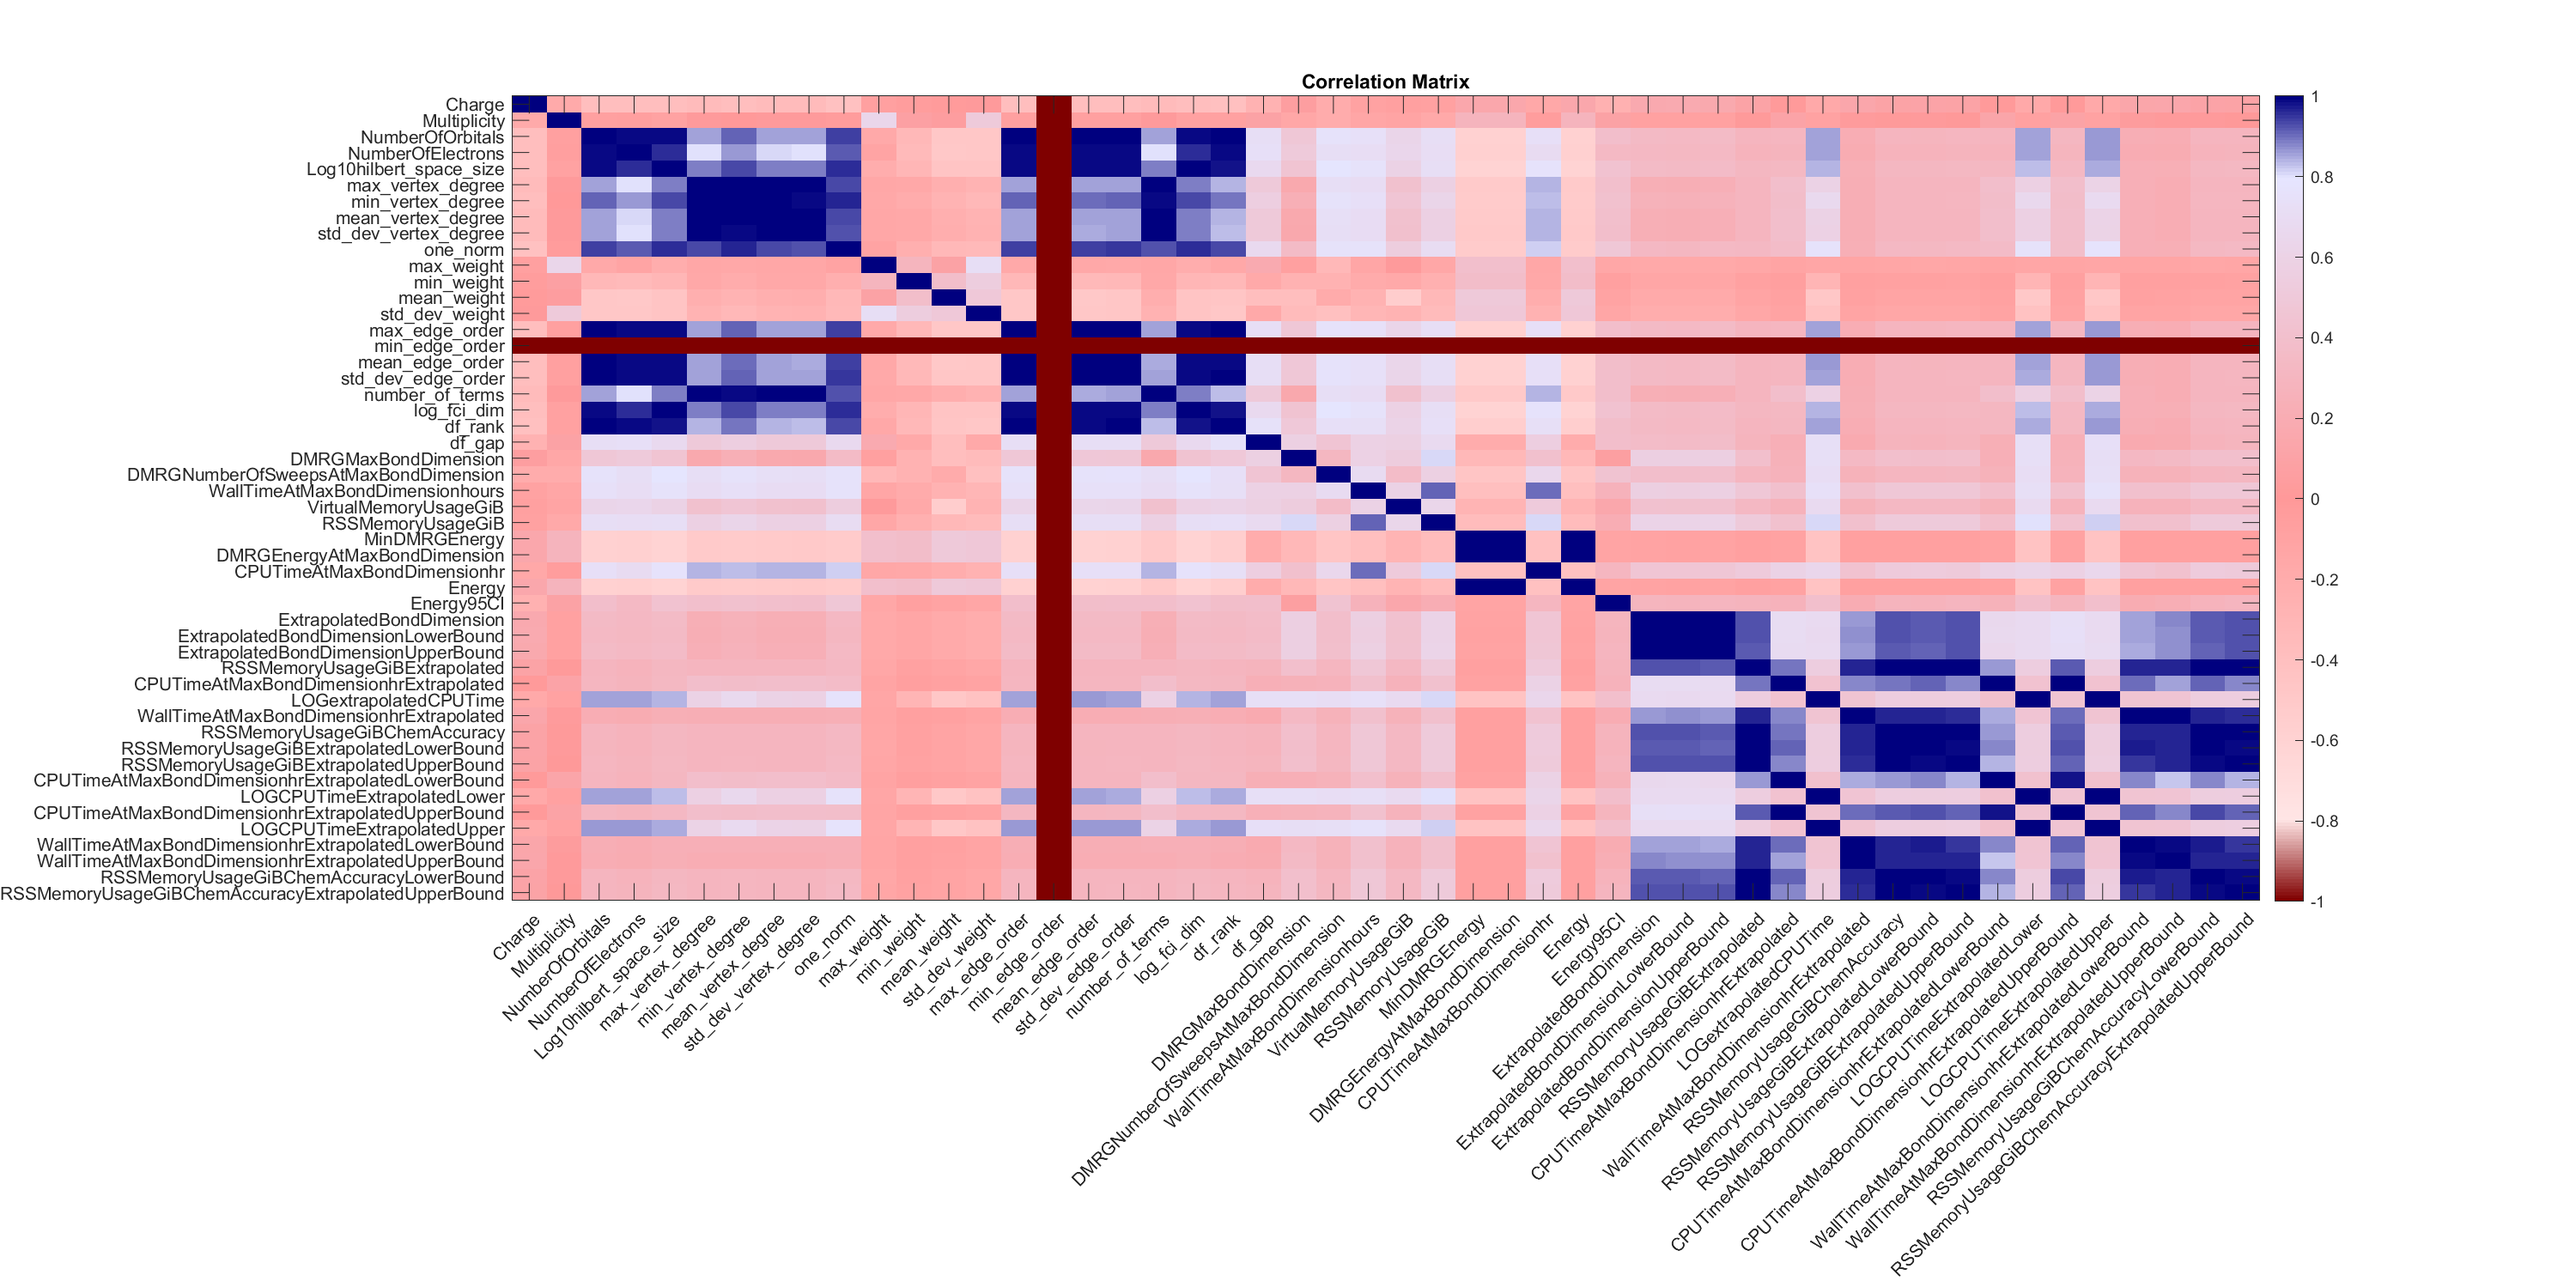
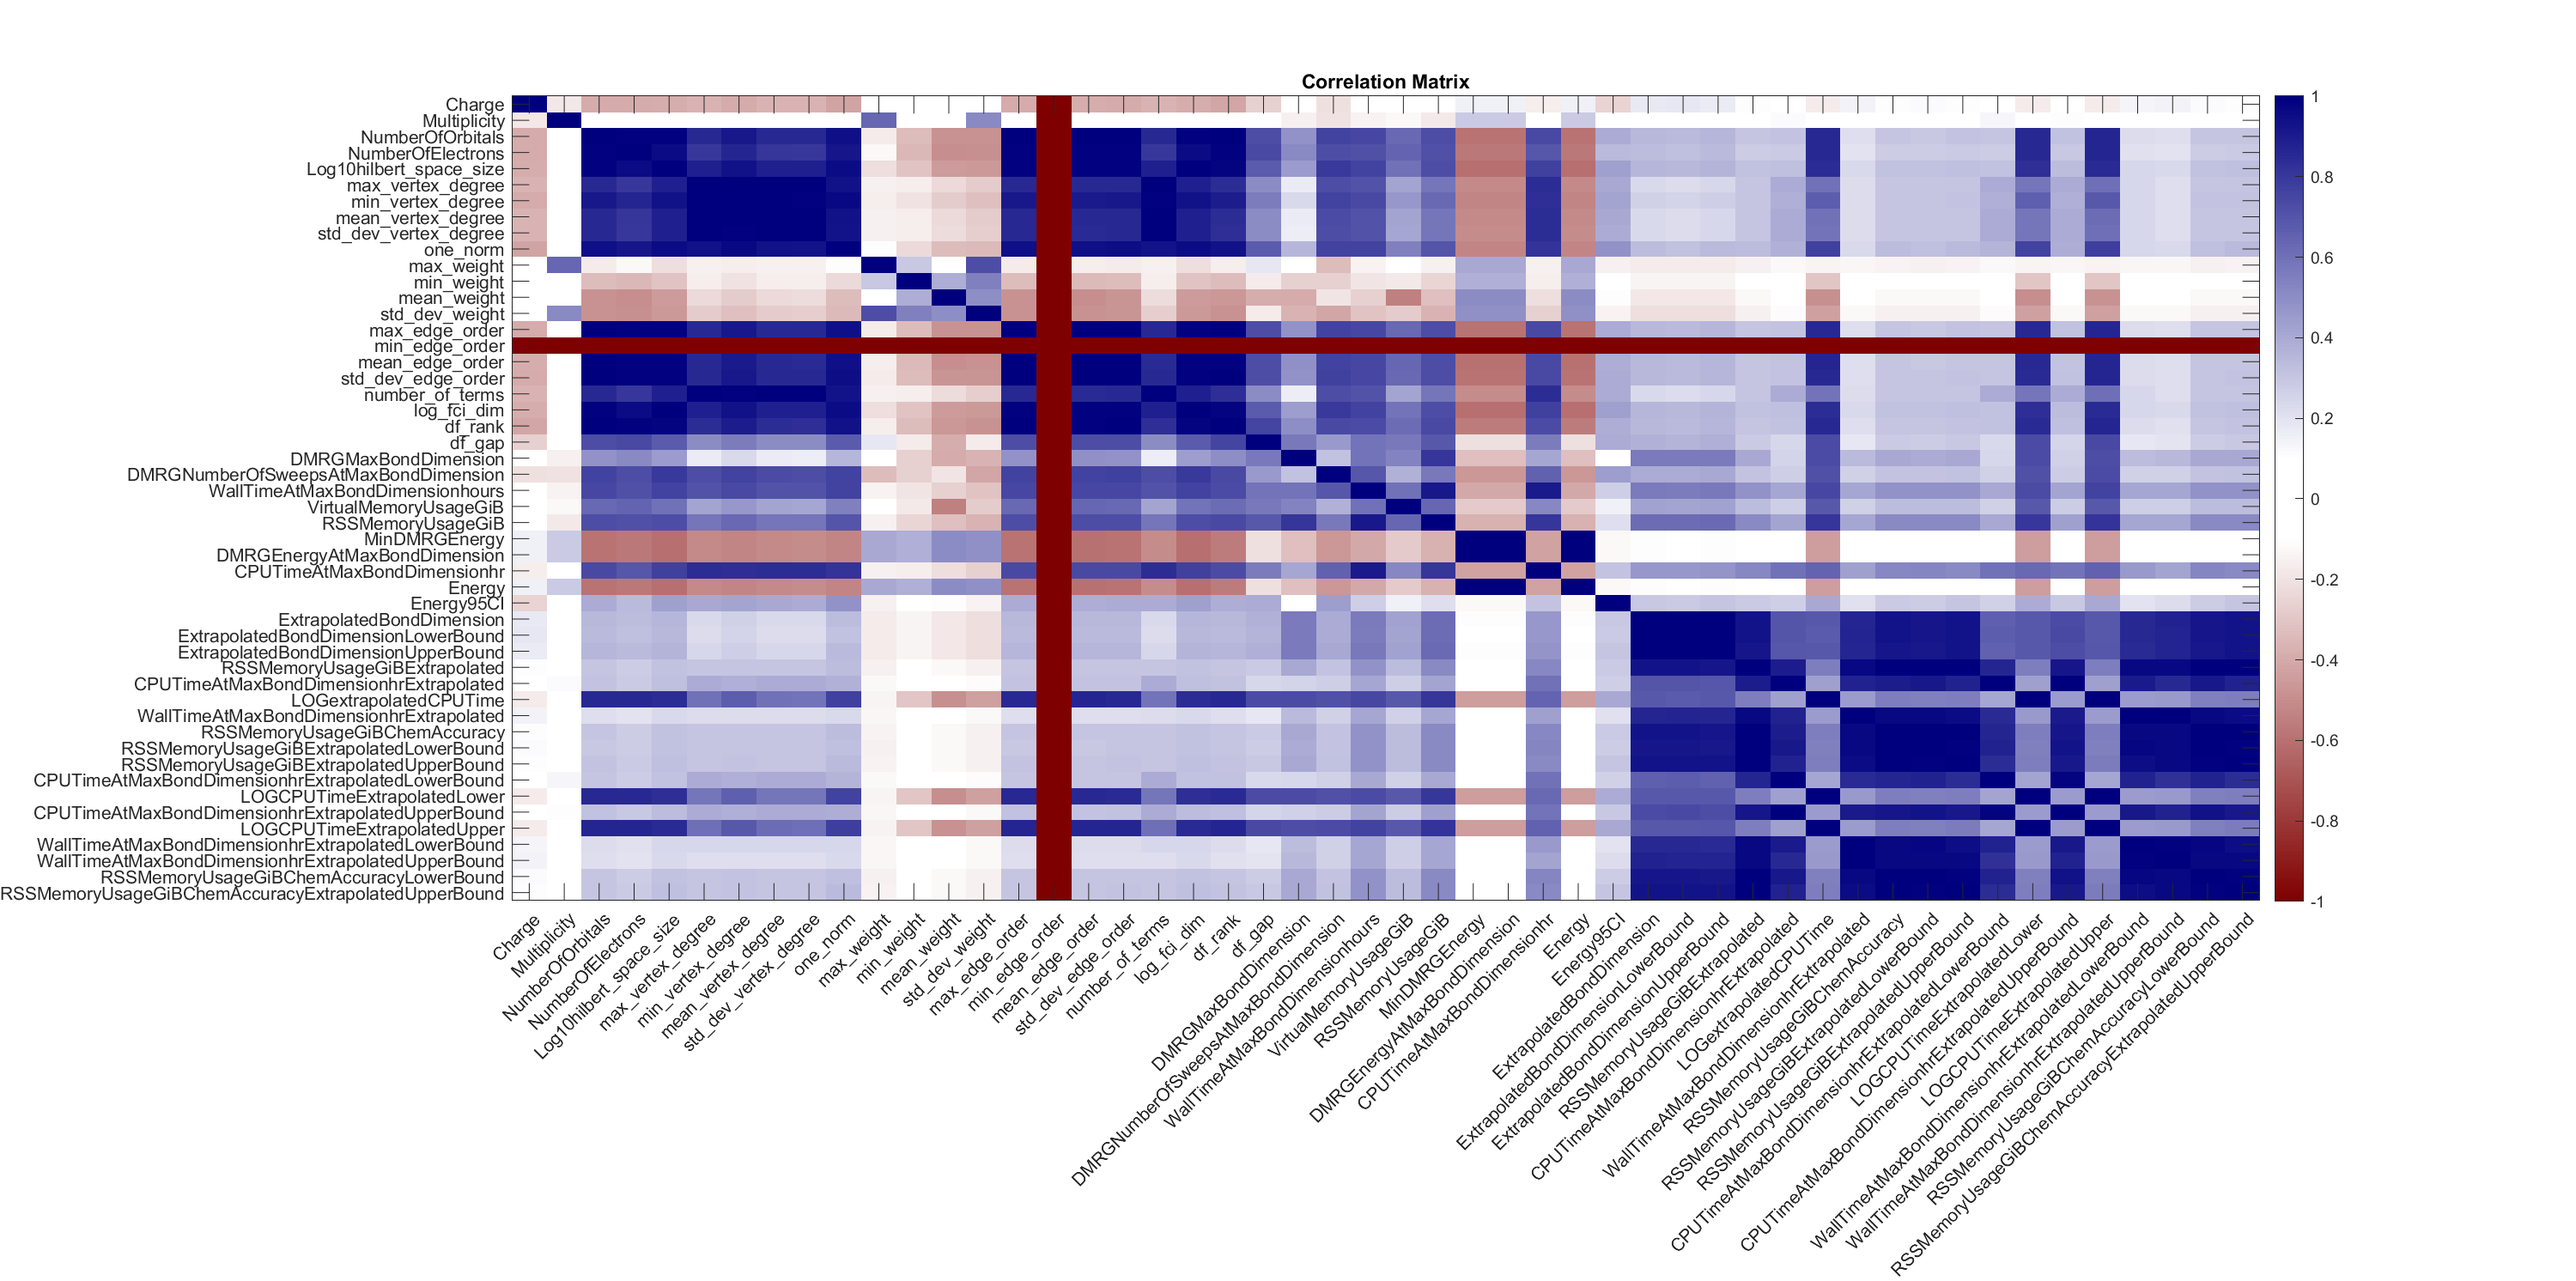
better color map for correlation matrix

diff --git a/DMRG_compute_time_analysis/correlation_of_features_and_runtimes.m b/DMRG_compute_time_analysis/correlation_of_features_and_runtimes.m
@@ -44,12 +44,12 @@ title('Correlation Matrix');
 
 % Custom colormap
 nColors = 256;
-breaks = [-1, -0.8, 0, 0.8, 1];
+breaks = [-1, -0.1, 0, 0.1, 1];
 colors = [
     0.5 0   0; % dark red
-    1   0.9 0.9; % light red
-    1   0.6 0.6; 
-    0.9 0.9 1; % light blue
+    1   1  1; 
+    1   1 1;
+    1   1  1; 
     0   0   0.5 % dark blue
 ];
 x = linspace(-1, 1, nColors)';
